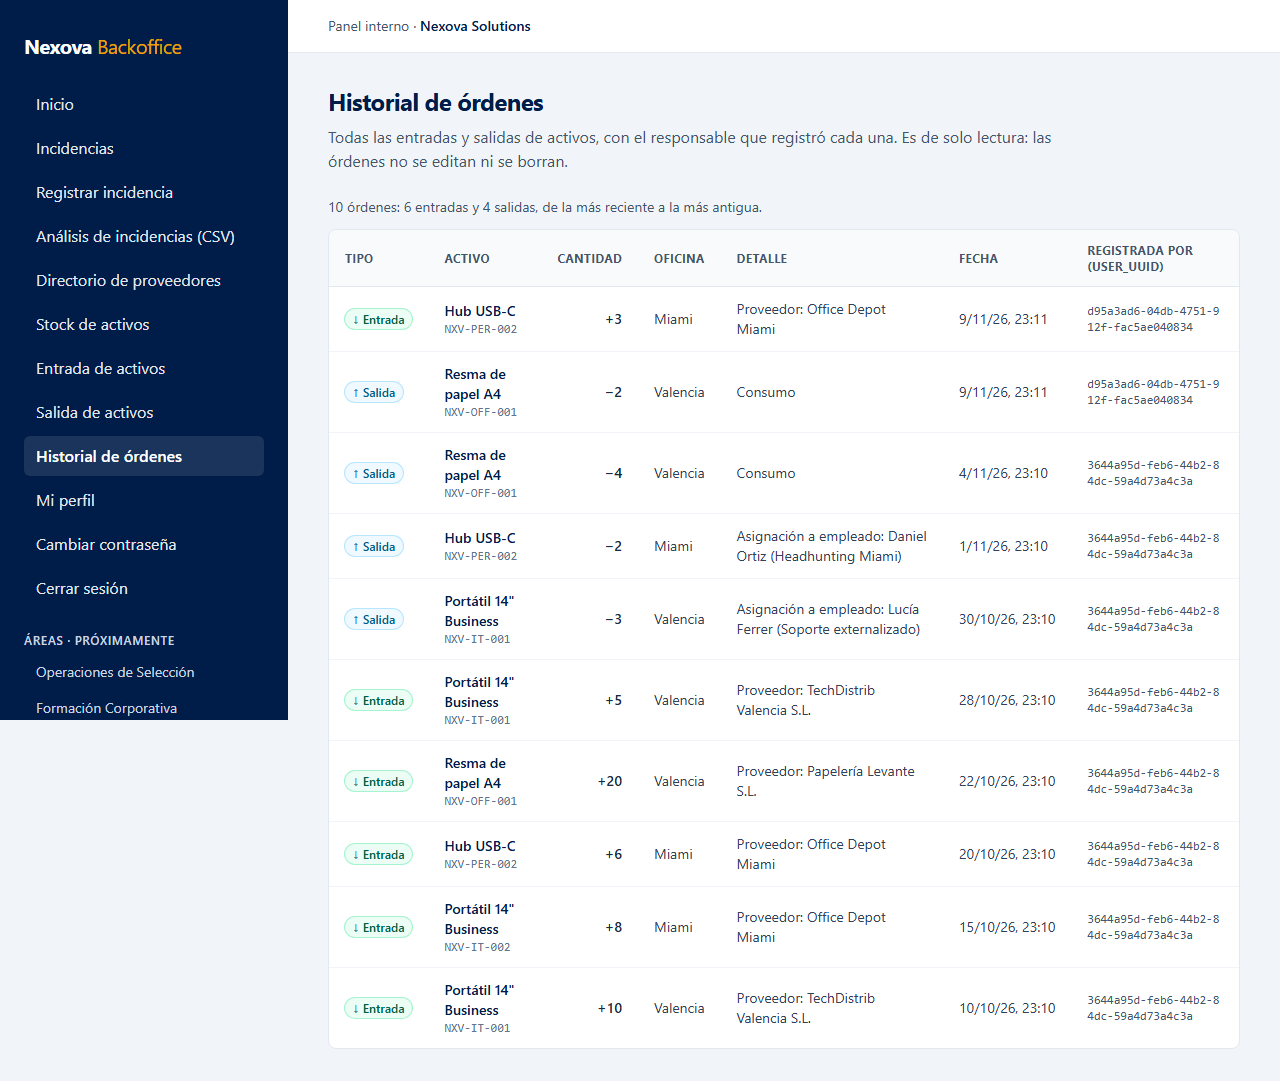
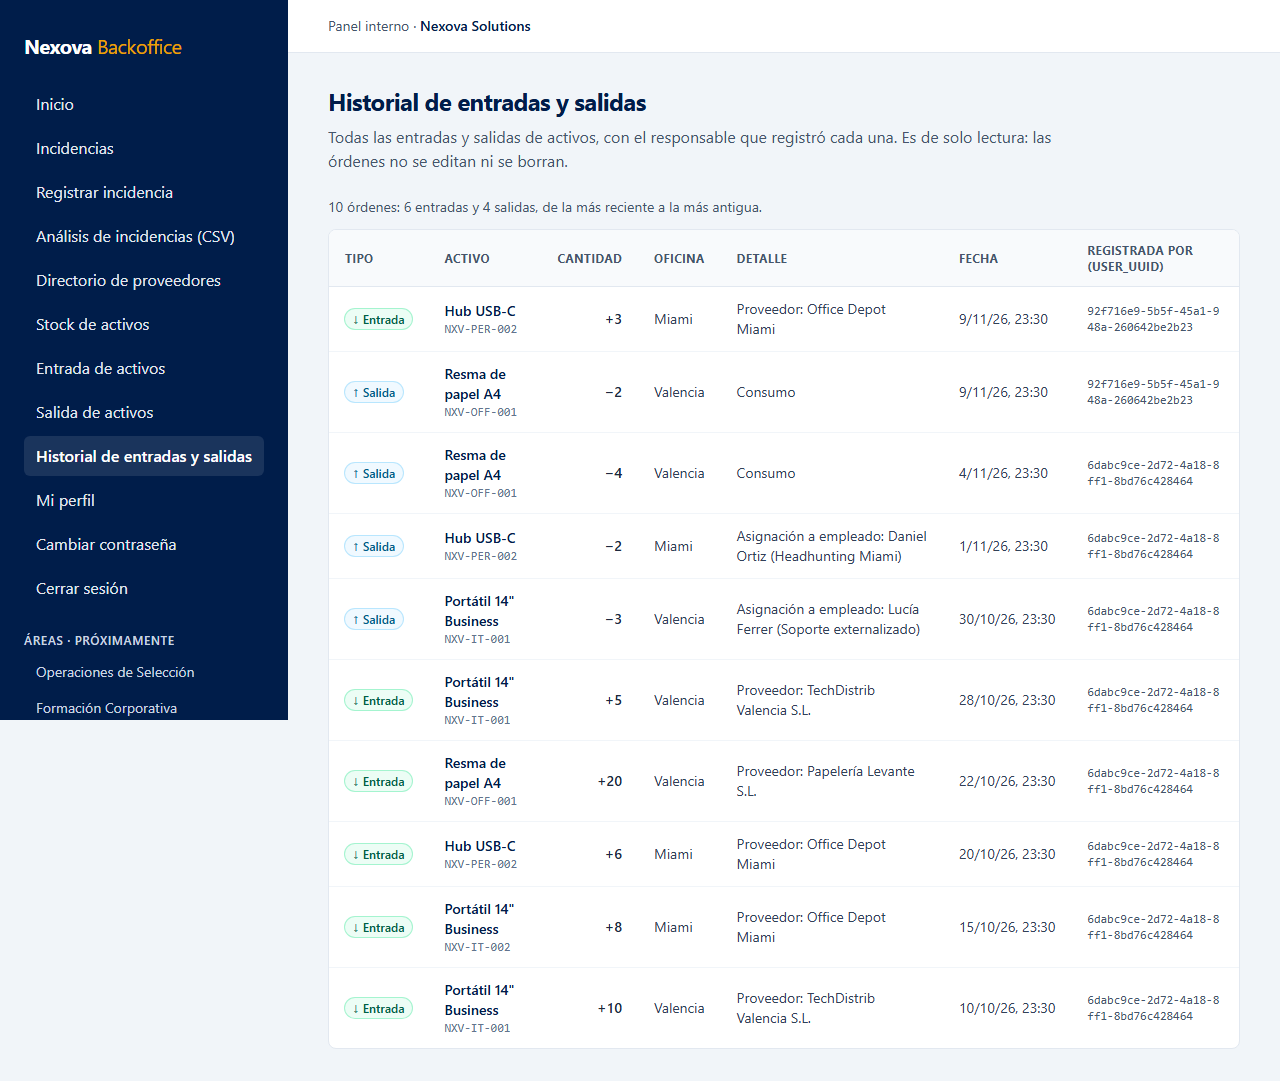
fix: rename inventory orders history to entradas y salidas

diff --git a/uis/backoffice/app/(panel)/inventory/orders/page.tsx b/uis/backoffice/app/(panel)/inventory/orders/page.tsx
@@ -2,14 +2,14 @@ import { OrdersHistory } from "@/components/inventory/OrdersHistory";
 import type { Metadata } from "next";
 
 export const metadata: Metadata = {
-  title: "Historial de órdenes de inventario — Nexova Solutions",
+  title: "Historial de entradas y salidas — Nexova Solutions",
 };
 
 export default function InventoryOrdersPage() {
   return (
     <div className="mx-auto max-w-6xl">
       <h1 className="text-2xl font-bold tracking-tight text-[#001D4A]">
-        Historial de órdenes
+        Historial de entradas y salidas
       </h1>
       <p className="mt-2 max-w-3xl text-slate-600">
         Todas las entradas y salidas de activos, con el responsable que registró cada una.

diff --git a/uis/backoffice/e2e/05-inventario.spec.ts b/uis/backoffice/e2e/05-inventario.spec.ts
@@ -230,7 +230,7 @@ test("historial: entradas y salidas distinguidas, con activo, fecha y user_uuid"
   page,
 }) => {
   await page.goto("/inventory/orders");
-  await expect(page.getByRole("heading", { name: "Historial de órdenes", level: 1 })).toBeVisible();
+  await expect(page.getByRole("heading", { name: "Historial de entradas y salidas", level: 1 })).toBeVisible();
 
   const rows = page.getByTestId("order-row");
   // 8 del seed + la salida y la entrada de los tests anteriores

diff --git a/uis/backoffice/components/Sidebar.tsx b/uis/backoffice/components/Sidebar.tsx
@@ -40,7 +40,7 @@ export function Sidebar() {
               <NavLink href="/inventory/orders/outbound">Salida de activos</NavLink>
             </li>
             <li>
-              <NavLink href="/inventory/orders">Historial de órdenes</NavLink>
+              <NavLink href="/inventory/orders">Historial de entradas y salidas</NavLink>
             </li>
             <li>
               <NavLink href="/account/profile">Mi perfil</NavLink>

diff --git a/uis/backoffice/components/inventory/OutboundOrderForm.tsx b/uis/backoffice/components/inventory/OutboundOrderForm.tsx
@@ -142,7 +142,7 @@ export function OutboundOrderForm() {
         <div role="status" className="rounded-md bg-emerald-50 p-3 text-sm text-emerald-800">
           {success}{" "}
           <Link href="/inventory/orders" className="font-medium underline underline-offset-2">
-            Ver el historial de órdenes
+            Ver el historial de entradas y salidas
           </Link>
         </div>
       )}

diff --git a/uis/backoffice/app/(panel)/inventory/products/page.tsx b/uis/backoffice/app/(panel)/inventory/products/page.tsx
@@ -22,7 +22,7 @@ export default function InventoryProductsPage() {
           Registrar salida de activos
         </Link>
         <Link href="/inventory/orders" className="text-[#006992] underline underline-offset-2">
-          Historial de órdenes
+          Historial de entradas y salidas
         </Link>
       </p>
       <div className="mt-6">

diff --git a/uis/backoffice/README.md b/uis/backoffice/README.md
@@ -39,7 +39,7 @@ Fuente de verdad: [`docs/CONTEXT-inventory-nexova.md`](../../docs/CONTEXT-invent
 | `/inventory/products` | **Stock de activos**: nombre, SKU, categoría, oficina y `current_stock`, con un indicador de nivel (color, icono y texto). Cada fila enlaza a «+ Entrada» y «− Salida» con el activo ya elegido (`?asset_id=`). |
 | `/inventory/orders/inbound` | **Entrada de activos**: activo (elegido por nombre, SKU y oficina), cantidad recibida y proveedor. La oficina receptora es la del activo. Tras el alta se limpia el formulario y se confirma. |
 | `/inventory/orders/outbound` | **Salida de activos**: el stock disponible se consulta a `GET /inventory/products/{id}` cada vez que cambia el activo, antes de escribir la cantidad. Si la cantidad lo supera, aparece un aviso (no bloquea: la regla real la aplica la API). El `400` «Insufficient stock…» se muestra junto al campo cantidad. «Asignado a» solo aparece, y es obligatorio, en las asignaciones; en un consumo se envía `null`. |
-| `/inventory/orders` | **Historial de órdenes**, de solo lectura: tipo (entrada en verde ↓ / salida en azul ↑), activo, cantidad, oficina, proveedor o asignación, fecha y `user_uuid`. |
+| `/inventory/orders` | **Historial de entradas y salidas**, de solo lectura: tipo (entrada en verde ↓ / salida en azul ↑), activo, cantidad, oficina, proveedor o asignación, fecha y `user_uuid`. |
 
 - **Una sola capa de API:** `lib/inventory.ts` hace todas las llamadas a `/inventory`; los componentes nunca usan `fetch`. Reutiliza `apiFetch`, así que envía `Authorization: Bearer <nexova_token>` y, ante un 401, vuelve a `/login`. Los tipos de `types/inventory.ts` reflejan `services/api/app/schemas.py`.
 - **Protección:** las cuatro páginas están en el route group `(panel)`, detrás de `AuthGuard`, igual que el resto del backoffice.
